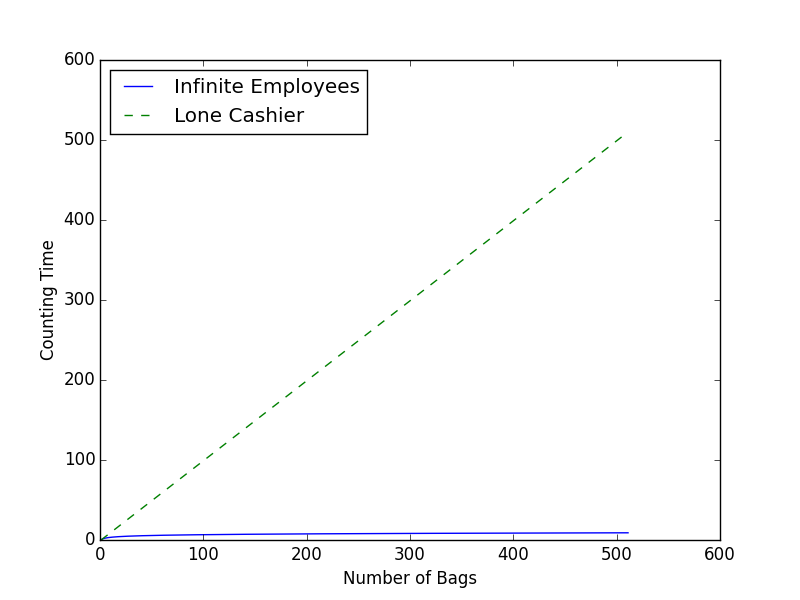
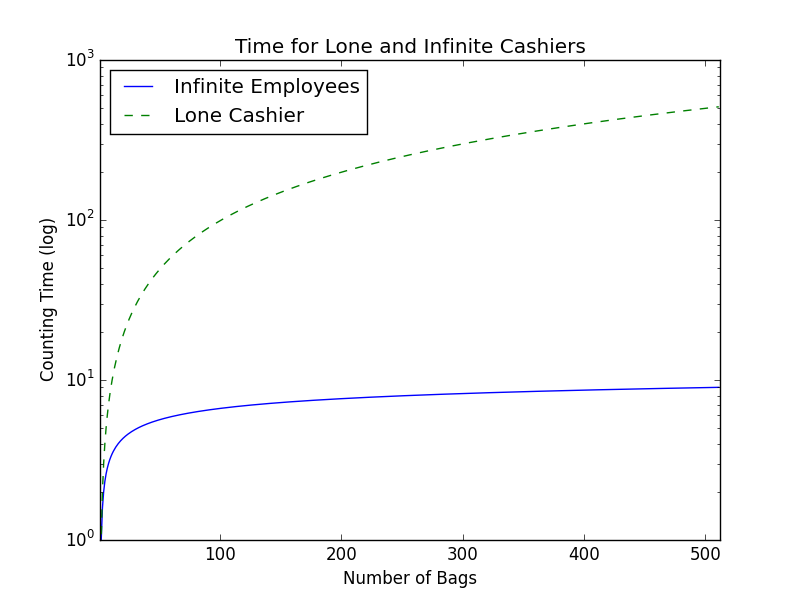
Updating submission

diff --git a/HW0/P4/P4.py b/HW0/P4/P4.py
@@ -35,6 +35,7 @@ if __name__ == '__main__':
     x_coords = s_true[:, 0]
     y_coords = s_true[:, 1]
     z_coords = s_true[:, 2]
+
     ax.plot(x_coords, y_coords, z_coords,
             '--b', label='True trajectory')
 
@@ -48,8 +49,9 @@ if __name__ == '__main__':
     x_coords = (1/rx) * meas[:, 0]
     y_coords = (1/ry) * meas[:, 1]
     z_coords = (1/rz) * meas[:, 2]
+    
     ax.plot(x_coords, y_coords, z_coords,
-            '.g', label='measerved trajectory')
+            '.g', label='Measured trajectory')
 
     #####################
     # Part 3:
@@ -74,9 +76,11 @@ if __name__ == '__main__':
     a = np.matrix([0, 0, 0, 0, 0, g*dt]).transpose()
     s0 = np.matrix([0, 0, 2, 15, 3.5, 4.0]).transpose()
 
+    # Initialize matrix
     s_blind = np.asmatrix(np.zeros([6, K]))
     s_blind[:, 0] = s0
 
+    # Fill in matrix with formula
     for k in xrange(1, K):
         s_blind[:, k] = A * s_blind[:, k-1] + a
 
@@ -116,8 +120,9 @@ if __name__ == '__main__':
     s0 = np.matrix([0, 0, 2, 15, 3.5, 4.0]).transpose()
     sigma0 = np.asmatrix(0.1 * np.identity(6))
 
-    sk_matrix = np.asmatrix(np.zeros([6, K]))
-    sk_matrix[:, 0] = s0
+    # Initialize matrix
+    s_filter = np.asmatrix(np.zeros([6, K]))
+    s_filter[:, 0] = s0
 
     def predictS(sk):
         return A * sk + a
@@ -131,19 +136,20 @@ if __name__ == '__main__':
     def updateS(sigma, sigma_tilde, s_tilde, mk):
         return sigma * (sigma_tilde * s_tilde + C.transpose() * mk)
 
+    # Fill in matrix with values
     curr_sigma = sigma0
     for k in xrange(K-1):
-        s_tilde = predictS(sk_matrix[:, k])
+        s_tilde = predictS(s_filter[:, k])
         sigma_tilde = predictSig(curr_sigma)
         curr_sigma = updateSig(sigma_tilde)
         mk = np.asmatrix(meas[k+1]).transpose()
         curr_sk = updateS(curr_sigma, sigma_tilde, s_tilde, mk)
-        sk_matrix[:, k+1] = curr_sk
+        s_filter[:, k+1] = curr_sk
 
-    sk_matrix = np.array(sk_matrix)
-    x_coords = sk_matrix[0]
-    y_coords = sk_matrix[1]
-    z_coords = sk_matrix[2]
+    s_filter = np.array(s_filter)
+    x_coords = s_filter[0]
+    y_coords = s_filter[1]
+    z_coords = s_filter[2]
 
     ax.plot(x_coords, y_coords, z_coords,
             '-r', label='Filtered trajectory')

diff --git a/HW0/P6/P6B.py b/HW0/P6/P6B.py
@@ -19,12 +19,13 @@ if __name__ == '__main__':
     wait_time = [10**(-i) for i in xrange(7)]
 
     for t in wait_time:
-        # Compute jobs serially and in parallel
-        # Use time.time() to compute the elapsed time for each
+
+        # Compute job in parallel
         start_parallelTime = time.time()
-        result = pool.map(burnTime(t), [t]*N)
+        result = pool.map(burnTime, [t]*N)
         stop_parallelTime = time.time()
 
+        # Compute job in serial
         start_serialTime = time.time()
         for i in xrange(N):
             burnTime(t)

diff --git a/HW0/P5/P5.py b/HW0/P5/P5.py
@@ -2,14 +2,17 @@ import matplotlib.pyplot as plt
 import math
 
 x = range(1, 512)
+# calculate series
 y_inf = [math.log(i, 2) for i in x]
 y_alone = [i-1 for i in x]
 
 plt.plot(x, y_inf, '-b', label='Infinite Employees')
 plt.plot(x, y_alone, '--g', label='Lone Cashier')
+plt.yscale('log')
+plt.xlim([1, 512])
 plt.xlabel('Number of Bags')
-plt.ylabel('Counting Time')
-plt.title('')
+plt.ylabel('Counting Time (log)')
+plt.title('Time for Lone and Infinite Cashiers')
 
 legend = plt.legend(loc='upper left')
 plt.savefig('P5.png')
